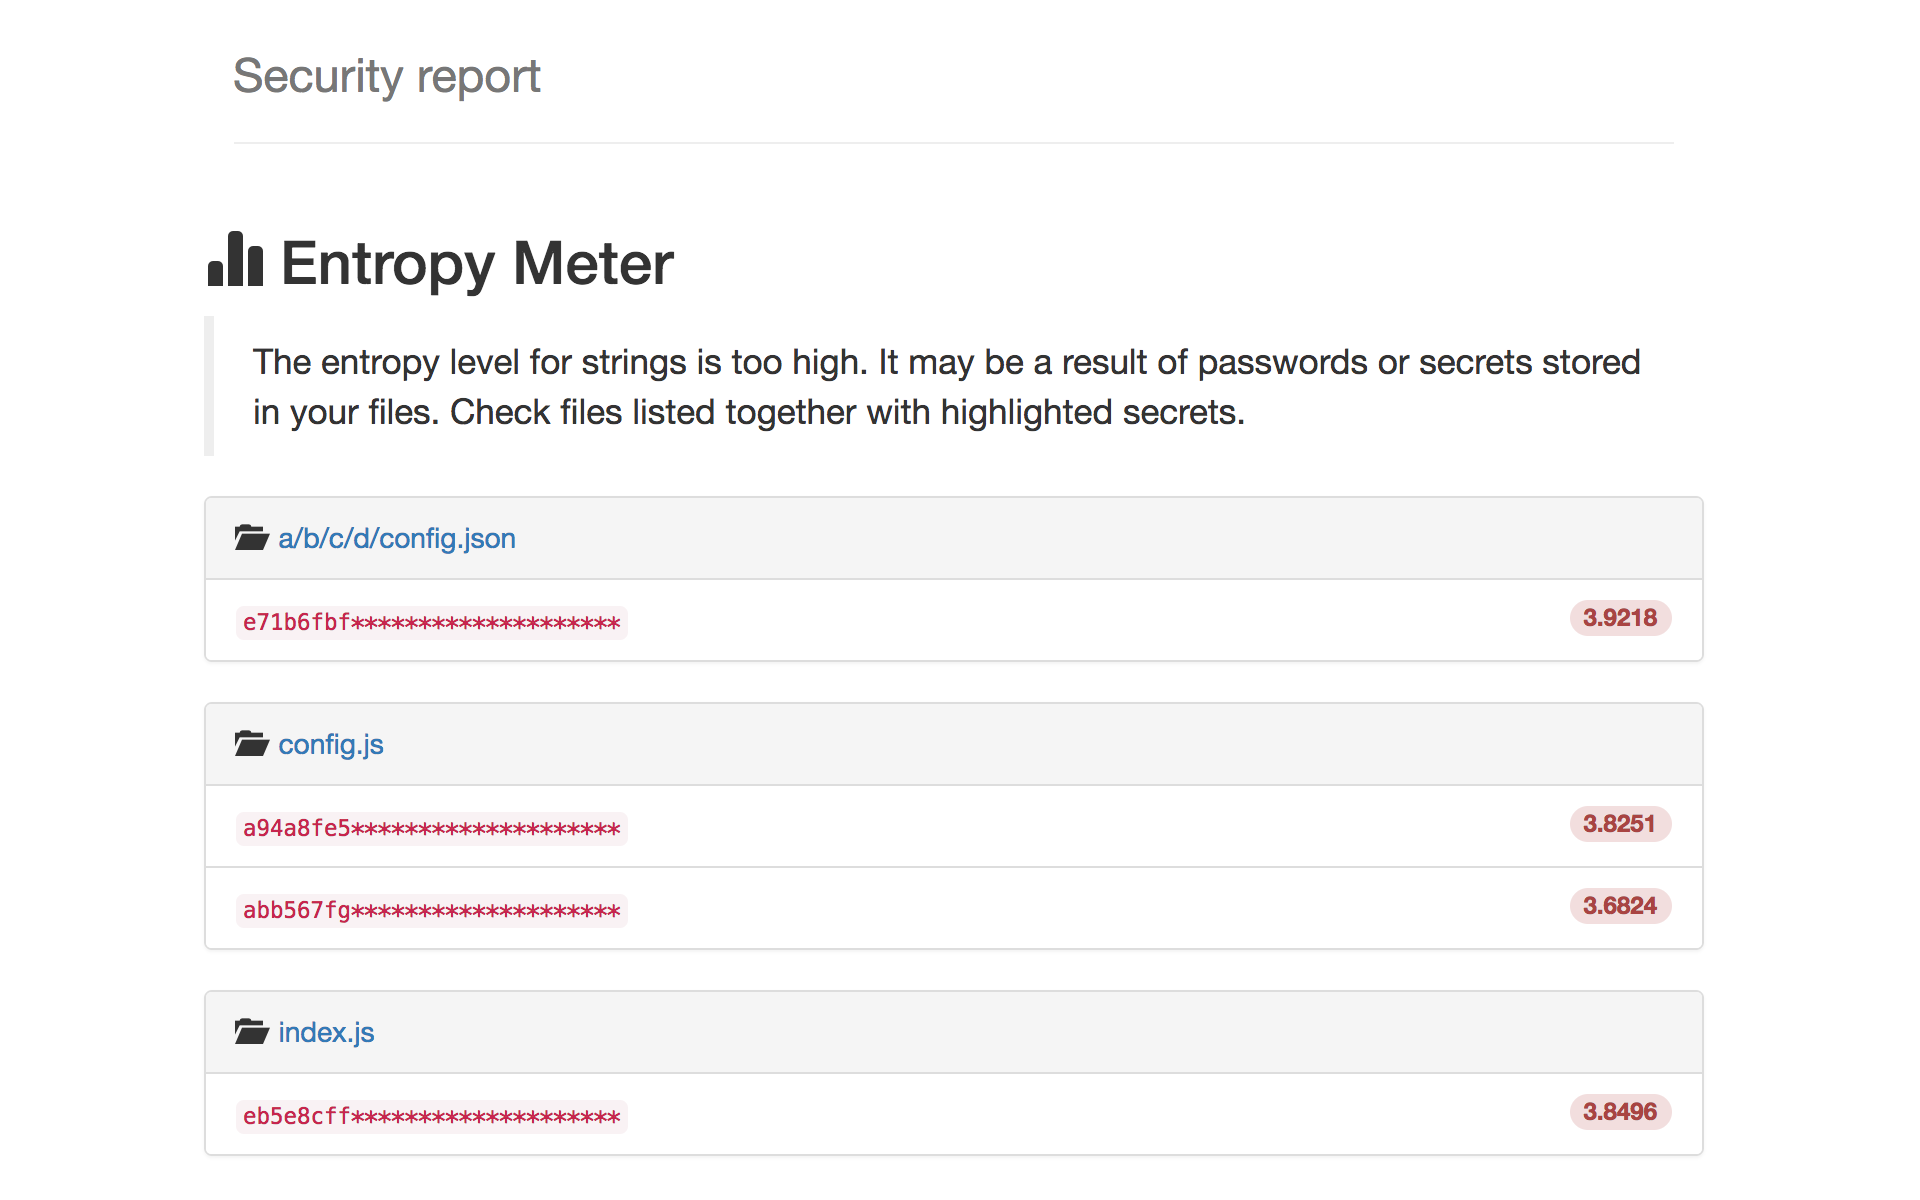
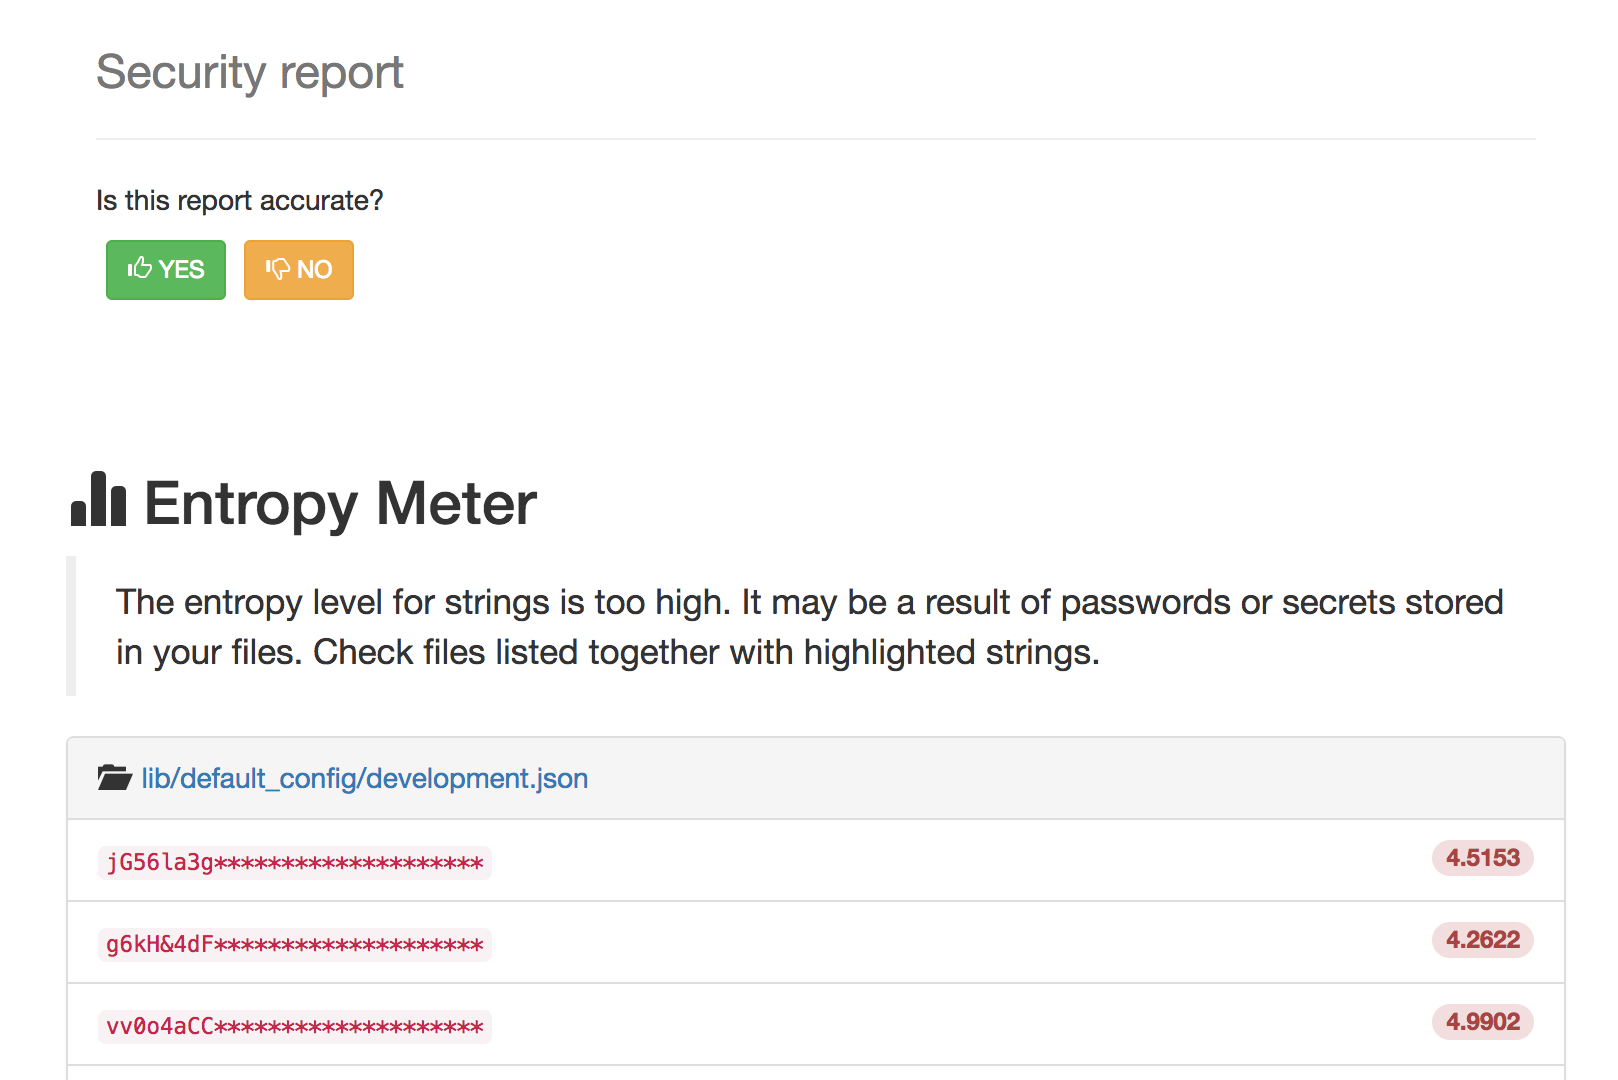
Update README file to reflect approve, reject functionality.

diff --git a/README.md b/README.md
@@ -53,6 +53,12 @@ This tool allows you to setup a `webhook` that waits for the Pull Requests and s
 
 <div style="text-align:center"><img src="docs/report.preview.png"/></div>
 
+Both acknowledge and rejection actions are triggering Slack notification which allows to whether improve or fix secrets detection rules.
+
+**Acknowledge** report (YES): Approve that report as valid, detected strings are actual secrets.
+
+**Reject** report (NO): Reject report, detected secrets are not credentials but only object identifiers, messages or other not related strings. It will help to improve the false-positives ratio.
+
 
 <h2 align="center">Security checks</h2>
 
